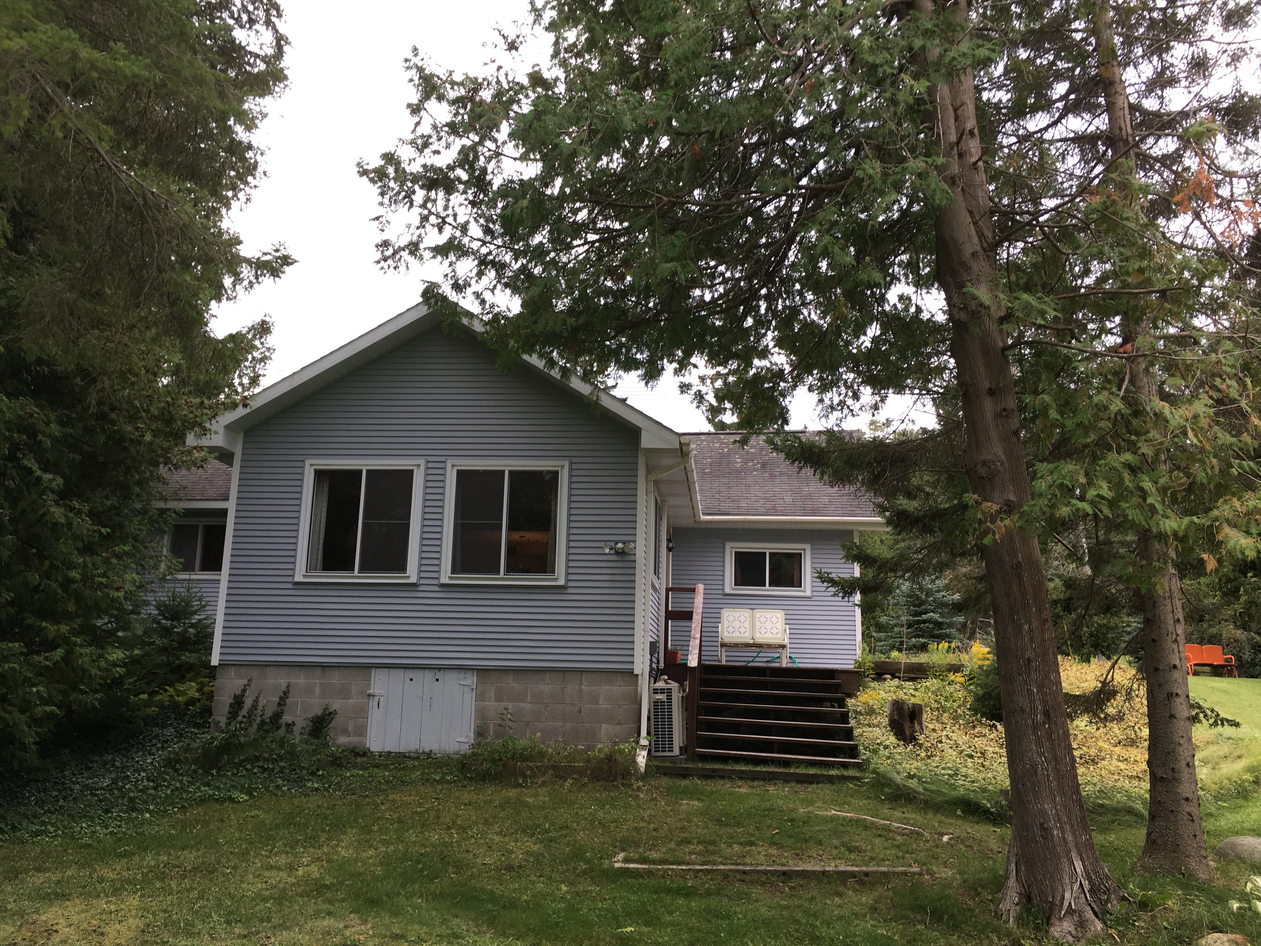
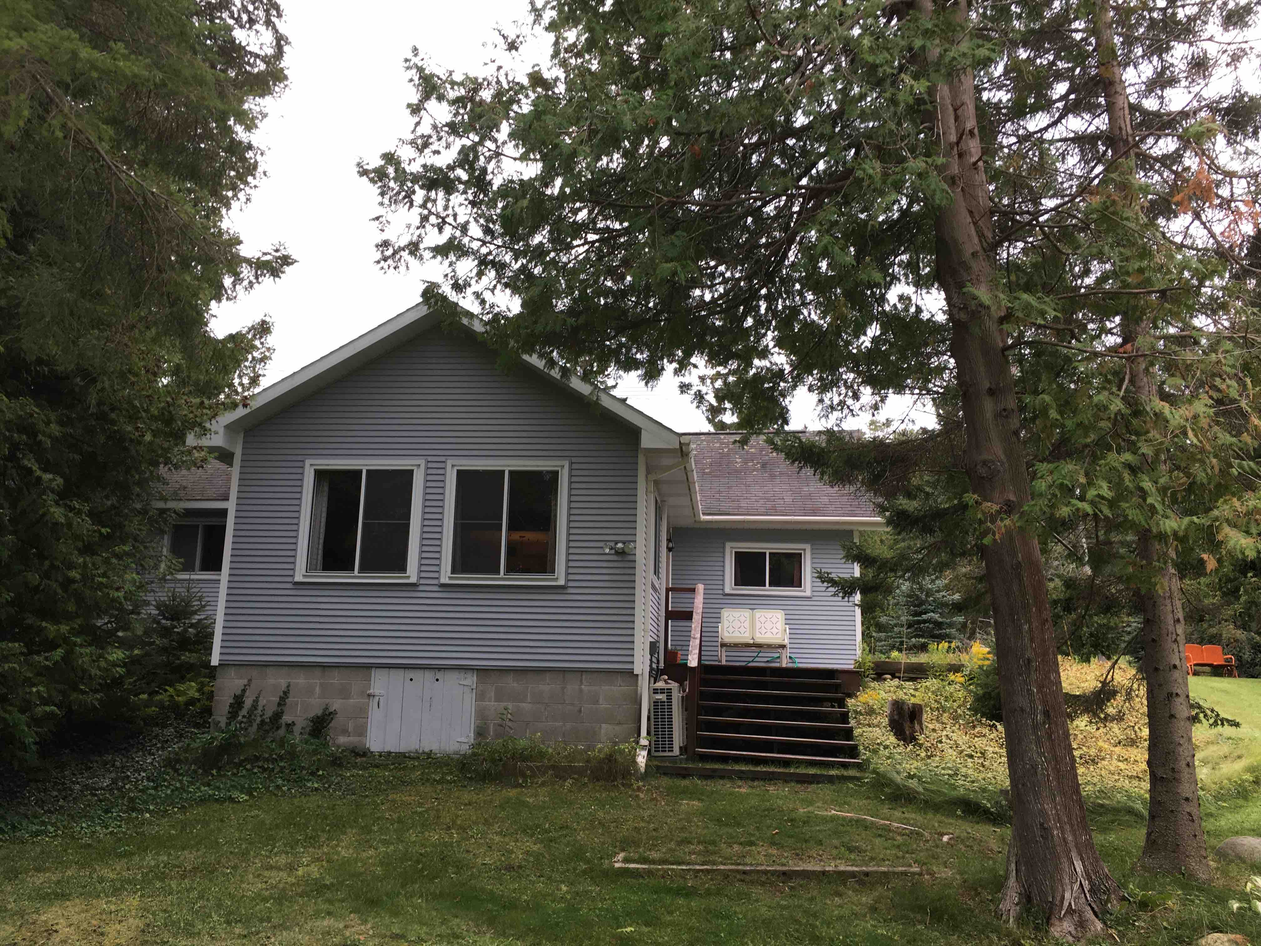
Collapsible text
1. Added cards to design.html.
2. Added collapsible card functions to design.html and progress.html.
3. Replaced large-sized images with smaller, lower-quality jpeg's - image file names did not change.

diff --git a/progress.html b/progress.html
@@ -150,14 +150,16 @@
                         <img class="card-img-top" src="images/progExteriorFall.jpg" alt="North exterior - autumn">
                         <div class="card-body">
                             <h3>North exterior of house in Autumn</h3>
-                            <p>A new doorwall and window combination has been installed in the kitchen that will open the indoors to the outdoors. The new, combination kitchen window is similar in layout to the three-section picture window on the original cabin's front wall that looked out and onto Lake Huron and Bois Blanc Island. The new windows will allow plenty of Northern summer light to enter the kitchen along with fresh breezes and sounds from the Straits of Mackinac.</p>
+                            <p id="progN-ExtFall" class="collapse">A new doorwall and window combination has been installed in the kitchen that will open the indoors to the outdoors. The new, combination kitchen window is similar in layout to the three-section picture window on the original cabin's front wall that looked out and onto Lake Huron and Bois Blanc Island. The new windows will allow plenty of Northern summer light to enter the kitchen along with fresh breezes and sounds from the Straits of Mackinac.</p>
+                            <button type="button" class="btn btn-outline-dark btn-sm" data-toggle="collapse" data-target="#progN-ExtFall">more / less</button>
                         </div>
                     </div>
                     <div class="card border border-dark">
                         <img class="card-img-top" src="images/progExteriorWinter.jpg" alt="North exterior - winter">
                         <div class="card-body">
                             <h3>North exterior of house in Winter</h3>
-                            <p>This photo was taken on January 7, 2021. It was a very sunny day, and as I walked through the kitchen and dining room, the increased natural light that came into the rooms was noticeable. There was 1-2 inches of snow on the ground with patches of grass here and there. The amount of snow on the ground is significantly less than what Grandpa and Grandma Castle experienced in the years after they relocated from Detroit to Cheboygan in 1981.</p>
+                            <p id="progN-ExtWint" class="collapse">This photo was taken on January 7, 2021. It was a very sunny day, and as I walked through the kitchen and dining room, the increased natural light that came into the rooms was noticeable. There was 1-2 inches of snow on the ground with patches of grass here and there. The amount of snow on the ground is significantly less than what Grandpa and Grandma Castle experienced in the years after they relocated from Detroit to Cheboygan in 1981.</p>
+                            <button type="button" class="btn btn-outline-dark btn-sm" data-toggle="collapse" data-target="#progN-ExtWint">more / less</button>
                         </div>
                     </div>
                 </div> <!-- end of card group #1 -->
@@ -176,21 +178,24 @@
                         <img class="card-img-top" src="images/progKitchDoorwallStud.jpg" alt="New doorwall inside wall stripped to stud frame">
                         <div class="card-body">
                             <h3>New entry doorwall</h3>
-                            <p>Along with the new doorwall and combination window, a new framewall was constructed in the kitchen interior. The original house wall can be seen behind the framewall - it is constructed of upright pine timbers. It served as both the exterior siding and as the frame of the house on which the interior pine v-groove paneling was fastened. Originally, house wires to outlets and switches were exposed on the cabin walls prior to the remodels and renovations that were undertaken in the 1970's and 80's. The new 2x4" framewall in the kitchen has been built alongside the original house wall timbers. This new framewall provides a larger, structured space to run plumbing and electrical inside the wall as well as to spray foam insulation.</p>
+                            <p id="progKit-1" class="collapse">Along with the new doorwall and combination window, a new framewall was constructed in the kitchen interior. The original house wall can be seen behind the framewall - it is constructed of upright pine timbers. It served as both the exterior siding and as the frame of the house on which the interior pine v-groove paneling was fastened. Originally, house wires to outlets and switches were exposed on the cabin walls prior to the remodels and renovations that were undertaken in the 1970's and 80's. The new 2x4" framewall in the kitchen has been built alongside the original house wall timbers. This new framewall provides a larger, structured space to run plumbing and electrical inside the wall as well as to spray foam insulation.</p>
+                            <button type="button" class="btn btn-outline-dark btn-sm" data-toggle="collapse" data-target="#progKit-1">more / less</button>
                         </div>
                     </div>
                     <div class="card border border-dark">
                         <img class="card-img-top" src="images/progIntBathKitchTrench.jpg" alt="Trench between bathroom and kitchen">
                         <div class="card-body">
                             <h3>Plumbing trench</h3>
-                            <p>A jackhammer has been used to remove the bathroom slab floor and to make a trench between the kitchen and the bathroom. New plumbing will be routed beneath the replaced slab with drain lines laid with sufficient pitch to the house septic line.</p>
+                            <p id="progKit-2" class="collapse">A jackhammer has been used to remove the bathroom slab floor and to make a trench between the kitchen and the bathroom. New plumbing will be routed beneath the replaced slab with drain lines laid with sufficient pitch to the house septic line.</p>
+                            <button type="button" class="btn btn-outline-dark btn-sm" data-toggle="collapse" data-target="#progKit-2">more / less</button>
                         </div>
                     </div>
                     <div class="card border border-dark">
                         <img class="card-img-top" src="images/progIntDinKitch1.jpg" alt="painted drywall in kitchen">
                         <div class="card-body">
                             <h3>Drywalled and painted kitchen</h3>
-                            <p>Having been drywalled and painted, the kitchen is ready to receive cabinets, flooring and trim. Foam insulation has been blown in behind the walls. Plumbing has been laid in the trench and covered in concrete. A layer of leveler will be appplied to the slab and allowed to cure prior to the installation of the flooring. Between the slab and the finished flooring planks, a vapor barrier and pad will be laid. The flooring "snaps" together and will float on top of the slab and padding. The padding provides insulation and also dampens the sound of footsteps on the hard flooring.</p>
+                            <p id="progKit-3" class="collapse">Having been drywalled and painted, the kitchen is ready to receive cabinets, flooring and trim. Foam insulation has been blown in behind the walls. Plumbing has been laid in the trench and covered in concrete. A layer of leveler will be appplied to the slab and allowed to cure prior to the installation of the flooring. Between the slab and the finished flooring planks, a vapor barrier and pad will be laid. The flooring "snaps" together and will float on top of the slab and padding. The padding provides insulation and also dampens the sound of footsteps on the hard flooring.</p>
+                            <button type="button" class="btn btn-outline-dark btn-sm" data-toggle="collapse" data-target="#progKit-3">more / less</button>
                         </div>
                     </div> 
                 </div> <!-- end of card group #1 - 3 columns best for responsive layout -->
@@ -199,22 +204,27 @@
                         <img class="card-img-top" src="images/progKitchCabSWallInstall.jpg" alt="Cabinets on kitchen south (appliance) wall">
                         <div class="card-body">
                             <h3>Appliance wall cabinets</h3>
-                            <p>Cabinets arrived for installation on February 4. You may notice that the partial wall between the dining room and kitchen has been removed. In its place is a knotty alder trim box to contain the fridge. The appliances will go in their approximate, previous locations. However, with the old entry door in the corner removed, counter space around the appliances has been extended from the refrigerator to the doorwall side of the room.</p>
+                            <p id="progKit-4" class="collapse">Cabinets arrived for installation on February 4. You may notice that the partial wall between the dining room and kitchen has been removed. In its place is a knotty alder trim box to contain the fridge. The appliances will go in their approximate, previous locations. However, with the old entry door in the corner removed, counter space around the appliances has been extended from the refrigerator to the doorwall side of the room.</p>
+                            <button type="button" class="btn btn-outline-dark btn-sm" data-toggle="collapse" data-target="#progKit-4">more / less</button>
                         </div>
                     </div>
                     <div class="card border border-dark">
                         <img class="card-img-top" src="images/progKitchCabNWallInstall.jpg" alt="Cabinets on kitchen north (sink) wall">
                         <div class="card-body">
                             <h3>Sink wall cabinets</h3>
-                            <p>Solid wood Mouser cabinets were selected for the kitchen. The frame is constructed of plywood, with knotty alder exteriors in natural stain. Due to warm weather humidity, plywood cabinetry is preferred over cabinets constructed with MDF or particle board. The appearance of these alder cabinets will deepen into a richer and more amber hue as they age over the years.</p>
+                            <p id="progKit-5" class="collapse">Solid wood Mouser cabinets were selected for the kitchen. The frame is constructed of plywood, with knotty alder exteriors in natural stain. Due to warm weather humidity, plywood cabinetry is preferred over cabinets constructed with MDF or particle board. The appearance of these alder cabinets will deepen into a richer and more amber hue as they age over the years.</p>
+                            <button type="button" class="btn btn-outline-dark btn-sm" data-toggle="collapse" data-target="#progKit-5">more / less</button>
                         </div>
                     </div>
                     <div class="card border border-dark">
                         <img class="card-img-top" src="images/progKitCabFloorInstalled.jpg" alt="Cabinets with new flooring in kitchen">
                         <div class="card-body">
                             <h3>Kitchen floor and trim</h3>
-                            <p>In this photo, you can see how the alder cabinetry and trim and the white oak flooring have come together to create a very warm space in the kitchen. The flooring is an engineered wood plank with a white oak veneer. It is manufactured in Kentucky from Appalachian oak. 
-                            <p>The flooring will require some attention and care because it is a natural wood product, but it shouldn't be fussy or overhelming. This is a more sustainable choice than some of the vinyl-based flooring products that are currently popular. This same flooring will be extended into the dining room and living room in the 2021/2022 fall-winter phase.</p>
+                            <div id="progKit-6" class="collapse">
+                                <p>In this photo, you can see how the alder cabinetry and trim and the white oak flooring have come together to create a very warm space in the kitchen. The flooring is an engineered wood plank with a white oak veneer. It is manufactured in Kentucky from Appalachian oak. 
+                                <p>The flooring will require some attention and care because it is a natural wood product, but it shouldn't be fussy or overhelming. This is a more sustainable choice than some of the vinyl-based flooring products that are currently popular. This same flooring will be extended into the dining room and living room in the 2021/2022 fall-winter phase.</p>
+                            </div>
+                            <button type="button" class="btn btn-outline-dark btn-sm" data-toggle="collapse" data-target="#progKit-6">more / less</button>
                         </div>
                     </div>
                 </div> <!-- end of card group #2 - 3 columns best for responsive layout -->
@@ -232,25 +242,32 @@
                         <img class="card-img-top" src="images/progIntDinKitch2.jpg" alt="Drywalled and painted dining room">
                         <div class="card-body">
                             <h3>Painted dining room</h3>
-                            <p>The jackhammered trench between the kitchen and the bathroom is now filled with concrete. New plumbing is routed beneath the replaced slab with drain lines laid with sufficient pitch to the house septic line.</p>
-                            <p>The new plumbing replaces hot and cold feed lines that were previously routed along the exterior walls of the house and were susceptible to winter freezing. In recent years, the lack of snow exposed the house to "Artic Clippers" where frigid temperatures combined with strong winds. This combination penetrated its way through house crevices and froze plumbing. The new buried lines will be much better protected.</p>
-                            <p>An added benefit of the new plumbing connection between the kitchen drain and the house septic system, is that a disposal can be installed. Disposal of food scraps in the kitchen sink will create a healthier and more efficient microbial environment in the house septic system.</p>                 
-                            <p>Between the bathroom and the well room in the garage, plex tube plumbing has been routed through interior walls.</p>
+                            <div id="progInt-1" class="collapse">
+                                <p>The jackhammered trench between the kitchen and the bathroom is now filled with concrete. New plumbing is routed beneath the replaced slab with drain lines laid with sufficient pitch to the house septic line.</p>
+                                <p>The new plumbing replaces hot and cold feed lines that were previously routed along the exterior walls of the house and were susceptible to winter freezing. In recent years, the lack of snow exposed the house to "Artic Clippers" where frigid temperatures combined with strong winds. This combination penetrated its way through house crevices and froze plumbing. The new buried lines will be much better protected.</p>
+                                <p>An added benefit of the new plumbing connection between the kitchen drain and the house septic system, is that a disposal can be installed. Disposal of food scraps in the kitchen sink will create a healthier and more efficient microbial environment in the house septic system.</p>                 
+                                <p>Between the bathroom and the well room in the garage, plex tube plumbing has been routed through interior walls.</p>
+                            </div>
+                            <button type="button" class="btn btn-outline-dark btn-sm" data-toggle="collapse" data-target="#progInt-1">more / less</button>
                         </div>
                     </div>
                     <div class="card border border-dark">
                         <img class="card-img-top" src="images/progIntBathEntry.jpg" alt="Drywalled and painted entrance into bathroom">
                         <div class="card-body">
                             <h3>Bathroom and bedroom entrance</h3>
-                            <p>The pocket door entrance into the bathroom has been drywalled and painted. The finish trimming can be seen in another photo on this page. The bathroom entrance has been shifted to the right in order to fit a 28" door. The sliding door will be a simple, Shaker styled, 2-panel door. As rooms are finished in the coming years, the existing slab doors will be replaced with similarly styled, 2-panel doors.</p>
+                            <p id="progInt-2" class="collapse">The pocket door entrance into the bathroom has been drywalled and painted. The finish trimming can be seen in another photo on this page. The bathroom entrance has been shifted to the right in order to fit a 28" door. The sliding door will be a simple, Shaker styled, 2-panel door. As rooms are finished in the coming years, the existing slab doors will be replaced with similarly styled, 2-panel doors.</p>
+                            <button type="button" class="btn btn-outline-dark btn-sm" data-toggle="collapse" data-target="#progInt-2">more / less</button>
                         </div>
                     </div>
                     <div class="card border border-dark">
                         <img class="card-img-top" src="images/progIntBreakerPanel.jpg" alt="New breaker panel in utility room">
                         <div class="card-body">
                             <h3>Utility room electrical sub-panel</h3>
-                            <p>A new electrical sub-panel, that connects to the main breaker panel in the "baby's" bedroom, has been installed in the utility room. As rooms are renovated, their electrical circuits will be routed to the utility room panel. Eventually, the breaker panel in the "baby's" bedroom will no longer be required and can be removed.</p>
-                            <p>Moving to a new electrical panel serves three purposes. First, it moves the breaker panel out of a living space and the room gains some wall space. Second, the newer panel is modernized to higher amperage service. Third, this co-locates the plumbing and electrical service in the garage, wellroom and utility room. In the future, when technological advancements make it feasible and affordable, we can consider solar paneling connected to battery banks in the colocated service area.</p>
+                            <div id="progInt-3" class="collapse">
+                                <p>A new electrical sub-panel, that connects to the main breaker panel in the "baby's" bedroom, has been installed in the utility room. As rooms are renovated, their electrical circuits will be routed to the utility room panel. Eventually, the breaker panel in the "baby's" bedroom will no longer be required and can be removed.</p>
+                                <p>Moving to a new electrical panel serves three purposes. First, it moves the breaker panel out of a living space and the room gains some wall space. Second, the newer panel is modernized to higher amperage service. Third, this co-locates the plumbing and electrical service in the garage, wellroom and utility room. In the future, when technological advancements make it feasible and affordable, we can consider solar paneling connected to battery banks in the colocated service area.</p>
+                            </div>
+                            <button type="button" class="btn btn-outline-dark btn-sm" data-toggle="collapse" data-target="#progInt-3">more / less</button>
                         </div>
                 </div> <!-- end of card group #1 -->
             </div> <!-- end of "interior-photos" section container -->
@@ -267,22 +284,27 @@
                         <img class="card-img-top" src="images/progBathDemo.jpg" alt="Bathroom demolition to stud walls">
                         <div class="card-body">
                             <h3>Bathroom wall demolition</h3>
-                            <p>This is a photo of the front bathroom demolition. This photo shows that the bathroom interior wall to the hallway has been removed. It will be replaced with a new wall with a pocket door. The bathroom door opening will be re-positioned so that a 28" solid-core, sliding door can be installed. The sliding door will create more room around the bath and allow privacy.</p>
+                            <p id="progBath-1" class="collapse">This is a photo of the front bathroom demolition. This photo shows that the bathroom interior wall to the hallway has been removed. It will be replaced with a new wall with a pocket door. The bathroom door opening will be re-positioned so that a 28" solid-core, sliding door can be installed. The sliding door will create more room around the bath and allow privacy.</p>
+                            <button type="button" class="btn btn-outline-dark btn-sm" data-toggle="collapse" data-target="#progBath-1">more / less</button>
                         </div>
                     </div>
                     <div class="card border border-dark">
                         <img class="card-img-top" src="images/progBathSlabRemoval.jpg" alt="Bathroom slab floor removal">
                         <div class="card-body">
                             <h3>Bathroom slab floor removal</h3>
-                            <p>Similar to the kitchen the front bathroom was stripped down to the exterior walls. The original exterior walls are the upright timbers behind the new 2x4" frame walls. The cement slab was also removed to allow new interior drainlines to be installed between the kitchen and the bathroom and the house septic line.</p>
+                            <p id="progBath-2" class="collapse">Similar to the kitchen the front bathroom was stripped down to the exterior walls. The original exterior walls are the upright timbers behind the new 2x4" frame walls. The cement slab was also removed to allow new interior drainlines to be installed between the kitchen and the bathroom and the house septic line.</p>
+                            <button type="button" class="btn btn-outline-dark btn-sm" data-toggle="collapse" data-target="#progBath-2">more / less</button>
                         </div>
                     </div>
                     <div class="card border border-dark">
                         <img class="card-img-top" src="images/progBathDrywall.jpg" alt="Bathroom hung drywall">
                         <div class="card-body">
                             <h3>Bathroom drywall hung</h3>
-                            <p>This closeup photo of the bathroom interior shows the tub stall and, to the right, the adjacent cubby after it was drywalled. The cubby is adjacent to the vanity as well as the tub. It will hold shelves that match the vanity and can be used by visitors to hold their toiletries.</p>
-                            <p>In the top left of the photo, a soffit extends above the shower head and along this interior wall. It contains the hot and cold water plumbing. All water feeds within the bathroom, as well as between the pump/furnace room and the bathroom, has been re-routed. Where possible, plex tube plumbing was fed through interior walls. Where plumbing could not be fed inside the wall 2x4" framing, soffits were built to hold the plex tubing. Moving the plumbing away from exterior walls will prevent pipes from freezing during cold weather so that the house may remain open during winter.</p>
+                            <div id="progBath-3" class="collapse">
+                                <p>This closeup photo of the bathroom interior shows the tub stall and, to the right, the adjacent cubby after it was drywalled. The cubby is adjacent to the vanity as well as the tub. It will hold shelves that match the vanity and can be used by visitors to hold their toiletries.</p>
+                                <p>In the top left of the photo, a soffit extends above the shower head and along this interior wall. It contains the hot and cold water plumbing. All water feeds within the bathroom, as well as between the pump/furnace room and the bathroom, has been re-routed. Where possible, plex tube plumbing was fed through interior walls. Where plumbing could not be fed inside the wall 2x4" framing, soffits were built to hold the plex tubing. Moving the plumbing away from exterior walls will prevent pipes from freezing during cold weather so that the house may remain open during winter.</p>
+                            </div>
+                            <button type="button" class="btn btn-outline-dark btn-sm" data-toggle="collapse" data-target="#progBath-3">more / less</button>
                         </div>
                     </div>
                 </div> <!-- end of card group #1 - 3 columns best for responsive layout -->
@@ -291,23 +313,27 @@
                         <img class="card-img-top" src="images/progBathFloorInstall.jpg" alt="Bathroom floor with herringbone tile pattern">
                         <div class="card-body">
                             <h3>Bathroom floor basket weave tiles</h3>
-                            <p>The black and white bathroom floor was laid in a vintage basket weave tile pattern. This smaller, tighter pattern masks imperfections in areas of older construction where walls bow or don't meet at perfect 90-degree angles.</p>
-                            <p>The basket weave's geometric pattern in high-contrast, black and white color tricks the eye, so that to the casual observer, the border lines between tile pieces appear to  bend. However, this is an optical illusion - upon closer inspection, it becomes more apparent that all tile lines are straight and meet at 90-degree angles.</p>
+                            <div id="progBath-4" class="collapse">
+                                <p>The black and white bathroom floor was laid in a vintage basket weave tile pattern. This smaller, tighter pattern masks imperfections in areas of older construction where walls bow or don't meet at perfect 90-degree angles.</p>
+                                <p>The basket weave's geometric pattern in high-contrast, black and white color tricks the eye, so that to the casual observer, the border lines between tile pieces appear to  bend. However, this is an optical illusion - upon closer inspection, it becomes more apparent that all tile lines are straight and meet at 90-degree angles.</p>
+                            </div>
+                            <button type="button" class="btn btn-outline-dark btn-sm" data-toggle="collapse" data-target="#progBath-4">more / less</button>
                         </div>
                     </div>
                     <div class="card border border-dark">
                         <img class="card-img-top" src="images/progBathTileGrout.jpg" alt="Bathtub tile grouting">
                         <div class="card-body">
                             <h3>Grouting the bathtub stall tiles</h3>
-                            <p>The bathroom floors and bathtub stall tiles were placed and grouted in January. This photo shows the installer applying a coat of grout to the wall tiles in the bathtub stall. In this photo, the grout glaze will eventually be wiped and buffed away from the tiles to reveal a smooth and clear surface.</p>
+                            <p id="progBath-5" class="collapse">The bathroom floors and bathtub stall tiles were placed and grouted in January. This photo shows the installer applying a coat of grout to the wall tiles in the bathtub stall. In this photo, the grout glaze will eventually be wiped and buffed away from the tiles to reveal a smooth and clear surface.</p>
+                            <button type="button" class="btn btn-outline-dark btn-sm" data-toggle="collapse" data-target="#progBath-5">more / less</button>
                         </div>
                     </div>
                     <div class="card border border-dark">
                         <img class="card-img-top" src="images/progBathTileVanity.jpg" alt="Bathroom entrance revealing tilework and new vanity">
                         <div class="card-body">
                             <h3>Bathroom entrance</h3>
-                            <p>This photo from Feb. 21 peeks into the nearly completed bathroom. The new freestanding vanity without its top can be seen in the lower right corner. The finished cubby shelves are adjacent to it. The completed tiling and painted walls are also visible.</p>
-                            
+                            <p id="progBath-6" class="collapse">This photo from Feb. 21 peeks into the nearly completed bathroom. The new freestanding vanity without its top can be seen in the lower right corner. The finished cubby shelves are adjacent to it. The completed tiling and painted walls are also visible.</p>
+                            <button type="button" class="btn btn-outline-dark btn-sm" data-toggle="collapse" data-target="#progBath-6">more / less</button>
                         </div>
                     </div>
                 </div> <!-- end of card group #2 - 3 columns best for responsive layout -->

diff --git a/design.html b/design.html
@@ -133,42 +133,75 @@
 
 
 
-        <!-- Three columns of text content with responsive design -->
+
+        <!-- Responsive card layout to contain design descriptions -->
+        <!--                 *** Start - Cards ***                 -->
+
         <div class="container-fluid">
             <div class="row">
-                <section class="kitchen col-md-4">
-                    <h2>Kitchen</h2>
-                    <h3>Appliance Wall (South)</h3>
-                    <img src="images/KitchenCabinetsCircuits1.jpg" alt="Kitchen cabinets and circuits on south-facing wall." class="design">
-                    <p>The side entry door on house's west face  has been replaced with a sliding doorwall and the cabinets will be reconfigured into a galley with wide aisle layout. The Mouser cabinets, trim, and moldings are knotty alder of a simple Shaker style and finished in clear natural stain.</p>
-                    <p>The galley kitchen configuration makes possible a larger doorwall that opens the room to the outdoors. The galley configuration also eliminates cabinets with blind corners that are prone to forgotten, buried storage items, and lazy susans that can become unbalanced or broken after several years of use.</p>
-                    <p>A durable engineered wood, 5" plank, floated flooring with white oak veneer will be installed throughout the kitchen. The engineered wood flooring will be extended into the dining room and living room in future construction phases - most likely 2021-2022. The wood flooring will further contribute to the warm tones set by the alder cabinets.</p>
-                    <p>A tossed marble tile will be used for the kitchen backsplash. The backsplash has a color similar to the sand found out front of the house and on nearby Bliss Beach and Waugoshance Point on Lake Michigan.</p>
-                    <h3>Sink Wall (North)</h3>
-                    <img src="images/KitchenCabinetsCircuits2.jpg" alt="Kitchen cabinets and circuits on south-facing wall." class="design">
-                    <p>The kitchen window on the house's north face  has been replaced with a larger, 3-window combination (one large awning and two flanking casements not shown in this rendering). The Mouser cabinets, trim, and moldings continue through the kitchen. The large window and doorwall will open the house to views of Lake Huron as well as the sidelot where Aunt Kathleen and Uncle George's cabin use to stand.</p>
-                    <p>The Mouser cabinets have solid plywood interiors that should last for decades. The knotty alder cabinet fronts with inset drawers and doors will amber into a richer color over the years taking on a hue similar to the original knotty pine that was used throughout the original cabin.</p>
-                    <p>Unfortunately, most of the original pine v-groove paneling in the kitchen was not recoverable. However, several boards from the original construction in the 1940's were salvaged from the dining room and might be re-used in future phases.</p>
-                    <p>In recent years, with less annual snowfall providing less protection to deeper cold freezes and temperature swings, the Cheboygan house has had to be winterized from November through March. With the current year construction plan, the kitchen plumbing has been re-worked to make the house usable in the winter. The new plumbing also allows for the placement of a sink disposal which will support a healthier septic system.</p>   
-                </section>
-                <section class="bathroom col-md-4">
-                    <h2>Bathroom</h2>
-                    <h3>Front - Original Cabin</h3>
-                    <img src="images/BathroomVanityWall.jpg" alt="New vanity, medicine cabinet, fixtures, and built-in shelf in front bathroom." class="design">
-                    <p>The front bathroom will be completely renovated. The room was stripped down to the frame walls and the slab floor was removed. A trench was opened up between the bathroom and the kitchen in order to connect the kitchen drain to the house septic line, and to move the house plumbing off exterior walls where they were susceptible to freezing and where they will now be more protected either underground, in interior walls or in re-built frame walls in the kitchen and bathroom where they can be properly insulated.</p>
-                    <p>A new vanity of shallower depth with wall fixtures will be installed. The shallower depth of the free-standing vanity allowed the door opening to be re-positioned and reconfigured as a pocket door. The pocket door and vanity will make the room more open and easier for adults and children to enter and move about the room. The built-in shelves were replaced to be more usable from the bathroom vanity. The new shelves are open and begin at 36" above the floor and extend to the ceiling. A false wall was installed below and behind the shelves to prevent dropped articles from getting lost or items pushed back out of sight, and to make cleaning generally easier.</p>
-                    <p>Not shown is the new tub and tiling. The black and white tiles around the tub combined with black and white basketweave floor tiles and chrome fixtures will give the room a vintage appearance reminiscent of the Asbury Park Detroit house.</p>
-                </section>
-                <section class="open-layout col-md-4 right-scroll">
-                    <h2>Open Layout</h2>
-                    <h3>2021-2022 Plans</h3>
-                    <img src="images/KitchenDiningLivingRoomTop.jpg" alt="Open layout of kitchen, dining and living rooms." class="design">
-                    <p>This top view shows how the kitchen has been re-configured to open up more to the outdoors through the doorwall and enlarged kitchen window. It also connects with the living room as well as the dining room by removing the peninsula and overhead cabinetry.</p>
-                    <p> In a future phase, most likely in Fall 2021-Winter2022, the living room entrance door will be covered and a new doorwall at the front of the living room will be installed that will open onto a new deck. New larger windows will also be installed in the Living Room.</p>
-                    <p>Great Great Grandpa Frost built the original cabin with a large picture window looking out onto Lake Huron. According to Grandpa Castle, his grandfather, a retired Detroit Mounted policeman and former soldier stationed at Fort Mackinac, enjoyed days when the wind would blow on the Straits and would refer to the breaking waves as "dancing white horses". Grandma and Grandpa Castle would peacefully look out onto the lake with a cup of tea or coffee, and Grandma Castle especially enjoyed watching the hummingbirds at the feeder outside her living room window. The new windows, doorwall and deck will move the next generations, during their visits to Northern Michigan, even closer to the outdoors and the Straits of Mackinac.</p>
-                </section>
-            </div>
+                <div class="col-md-6 col-lg-4 col-xl-3">
+                    <div class="card border border-dark">
+                        <h2>Kitchen Appliance Wall (South)</h2>
+                        <img src="images/KitchenCabinetsCircuits1.jpg" alt="Kitchen cabinets and circuits on south-facing wall." class="design">
+                        <p>The side entry door on house's west face  has been replaced with a sliding doorwall and the cabinets will be reconfigured into a galley with wide aisle layout. The Mouser cabinets, trim, and moldings are knotty alder of a simple Shaker style and finished in clear natural stain.</p>
+                        <div id="desKit-1" class="collapse">
+                            <p>The galley kitchen configuration makes possible a larger doorwall that opens the room to the outdoors. The galley configuration also eliminates cabinets with blind corners that are prone to forgotten, buried storage items, and lazy susans that can become unbalanced or broken after several years of use.</p>
+                            <p>A durable engineered wood, 5" plank, floated flooring with white oak veneer will be installed throughout the kitchen. The engineered wood flooring will be extended into the dining room and living room in future construction phases - most likely 2021-2022. The wood flooring will further contribute to the warm tones set by the alder cabinets.</p>
+                            <p>A tossed marble tile will be used for the kitchen backsplash. The backsplash has a color similar to the sand found out front of the house and on nearby Bliss Beach and Waugoshance Point on Lake Michigan.</p>
+                        </div>
+                        <button type="button" class="btn btn-outline-dark btn-sm" data-toggle="collapse" data-target="#desKit-1">more / less</button>
+                    </div>
+                    <br>
+                </div>
+
+                <div class="col-md-6 col-lg-4 col-xl-3">
+                    <div class="card border border-dark">
+                        <h3>Kitchen Sink Wall (North)</h3>
+                        <img src="images/KitchenCabinetsCircuits2.jpg" alt="Kitchen cabinets and circuits on south-facing wall." class="design">
+                        <p>The kitchen window on the house's north face  has been replaced with a larger, 3-window combination (one large awning and two flanking casements not shown in this rendering). The Mouser cabinets, trim, and moldings continue through the kitchen. The large window and doorwall will open the house to views of Lake Huron as well as the sidelot where Aunt Kathleen and Uncle George's cabin use to stand.</p>
+                        <div id="desKit-2" class="collapse">
+                            <p>The Mouser cabinets have solid plywood interiors that should last for decades. The knotty alder cabinet fronts with inset drawers and doors will amber into a richer color over the years taking on a hue similar to the original knotty pine that was used throughout the original cabin.</p>
+                            <p>Unfortunately, most of the original pine v-groove paneling in the kitchen was not recoverable. However, several boards from the original construction in the 1940's were salvaged from the dining room and might be re-used in future phases.</p>
+                            <p>In recent years, with less annual snowfall providing less protection to deeper cold freezes and temperature swings, the Cheboygan house has had to be winterized from November through March. With the current year construction plan, the kitchen plumbing has been re-worked to make the house usable in the winter. The new plumbing also allows for the placement of a sink disposal which will support a healthier septic system.</p> 
+                        </div>
+                        <button type="button" class="btn btn-outline-dark btn-sm" data-toggle="collapse" data-target="#desKit-2">more / less</button>
+                    </div>
+                    <br>
+                </div>
+
+                <div class="col-md-6 col-lg-4 col-xl-3">
+                    <div class="card border border-dark">
+                    <h2>Front Bathroom - Original Cabin</h2>
+                        <img src="images/BathroomVanityWall.jpg" alt="New vanity, medicine cabinet, fixtures, and built-in shelf in front bathroom." class="design">
+                        <p>The front bathroom will be completely renovated. The room was stripped down to the frame walls and the slab floor was removed. A trench was opened up between the bathroom and the kitchen in order to connect the kitchen drain to the house septic line, and to move the house plumbing off exterior walls where they were susceptible to freezing and where they will now be more protected either underground, in interior walls or in re-built frame walls in the kitchen and bathroom where they can be properly insulated.</p>
+                        <div id="desBath" class="collapse">
+                            <p>A new vanity of shallower depth with wall fixtures will be installed. The shallower depth of the free-standing vanity allowed the door opening to be re-positioned and reconfigured as a pocket door. The pocket door and vanity will make the room more open and easier for adults and children to enter and move about the room. The built-in shelves were replaced to be more usable from the bathroom vanity. The new shelves are open and begin at 36" above the floor and extend to the ceiling. A false wall was installed below and behind the shelves to prevent dropped articles from getting lost or items pushed back out of sight, and to make cleaning generally easier.</p>
+                            <p>Not shown is the new tub and tiling. The black and white tiles around the tub combined with black and white basketweave floor tiles and chrome fixtures will give the room a vintage appearance reminiscent of the Asbury Park Detroit house.</p>
+                        </div>
+                        <button type="button" class="btn btn-outline-dark btn-sm" data-toggle="collapse" data-target="#desBath">more / less</button>
+                    </div>
+                    <br>
+                </div>
+
+                <div class="col-md-6 col-lg-4 col-xl-3">
+                    <div class="card border border-dark">
+                        <h2>Open Layout - 2021-2022 Plans</h2>
+                        <img src="images/KitchenDiningLivingRoomTop.jpg" alt="Open layout of kitchen, dining and living rooms." class="design">
+                        <p>This top view shows how the kitchen has been re-configured to open up more to the outdoors through the doorwall and enlarged kitchen window. It also connects with the living room as well as the dining room by removing the peninsula and overhead cabinetry.</p>
+                        <div id="desFuture" class="collapse">
+                            <p> In a future phase, most likely in Fall 2021-Winter2022, the living room entrance door will be covered and a new doorwall at the front of the living room will be installed that will open onto a new deck. New larger windows will also be installed in the Living Room.</p>
+                            <p>Great Great Grandpa Frost built the original cabin with a large picture window looking out onto Lake Huron. According to Grandpa Castle, his grandfather, a retired Detroit Mounted policeman and former soldier stationed at Fort Mackinac, enjoyed days when the wind would blow on the Straits and would refer to the breaking waves as "dancing white horses". Grandma and Grandpa Castle would peacefully look out onto the lake with a cup of tea or coffee, and Grandma Castle especially enjoyed watching the hummingbirds at the feeder outside her living room window. The new windows, doorwall and deck will move the next generations, during their visits to Northern Michigan, even closer to the outdoors and the Straits of Mackinac.</p>
+                        </div>
+                        <button type="button" class="btn btn-outline-dark btn-sm" data-toggle="collapse" data-target="#desFuture">more / less</button>
+                    </div>
+                    <br>
+                </div>
+
+            </div>            
         </div>
+
+        <!--                 *** End - Cards ***                 -->
+
     </main>
 
     <!-- 1. Add a map to the website footer.
